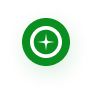
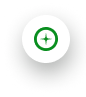
add: green btn with responsive

Changed region(s): [[0.2093, 0.1875, 0.8605, 0.7812]]

diff --git a/src/pages/historyOfComplaints.html b/src/pages/historyOfComplaints.html
@@ -6,7 +6,7 @@
 <head>
     <meta charset="UTF-8">
     <meta name="viewport" content="width=device-width, initial-scale=1.0">
-    <title>Resover | History of complaints</title>
+    <title>Resover | Complaint History</title>
     <link href="https://cdn.jsdelivr.net/npm/daisyui@4.12.10/dist/full.min.css" rel="stylesheet" type="text/css" />
     <script src="https://cdn.tailwindcss.com"></script>
     <script src="https://kit.fontawesome.com/96ee5d0221.js" crossorigin="anonymous"></script>
@@ -139,7 +139,7 @@
     <!-- profile intro section -->
     <section class="xl:block hidden container mx-auto bg-[#F6FBFD] py-16 ">
         <div class=" mx-20 flex flex-col justify-center items-center">
-            <div class="w-full relative">
+            <div class="w-full ">
                 <div class="flex flex-col justify-center items-center">
                     <div><img src="../assets/images/charlie.png" alt=""></div>
                     <h2 class="text-3xl font-medium my-2">Charlie Henderson</h2>
@@ -148,7 +148,7 @@
                         <span>San Francisco,CA</span>
                     </p>
                 </div>
-                <img class="-mb-8 -ml-3 absolute bottom-0 xl:block hidden" src="../assets/images/green-plus.png" alt="">
+                
             </div>
             <div class="text-gray-500 container mx-auto bg-white rounded shadow  font-semibold px-5 py-5 mt-10">
                 <a href="./userProfileInformation.html" class="px-4 py-2">Profile Information</a>
@@ -163,7 +163,32 @@
 
 
     <!-- compaint section  -->
-    <section class=" container xl:px-20 px-4 xl:pt-10 xl:pb-32  bg-[#F4F4F4] ">
+    <section class="relative container xl:px-20 px-4 xl:pt-10 xl:pb-32  bg-[#F4F4F4] ">   
+<!-- green icon btn -->
+<div class="xl:block hidden dropdown dropdown-top absolute top-16 left-0">
+    <img src="../assets/images/green-plus.png" alt="Logo" tabindex="0" role="button" class="" id="fab-btn-left" onclick="toggleDropdown('dropdown-menu-left')" />
+    <ul id="dropdown-menu-left" class="dropdown-content menu bg-base-100 rounded-box z-[1] w-52 p-2 left-10 shadow relative">
+        <li class="flex justify-end">
+            <button class="absolute top-0 -left-10 btn btn-xs btn-circle border-2 border-black" onclick="closeDropdown('dropdown-menu-left')">&times;</button>
+        </li>
+        <li><a><i class="fa-regular fa-star ml-2"></i>Write Review</a></li>
+        <li><a><i class="fa-regular fa-star ml-2"></i>Resolve an Issue</a></li>
+        <li><a><i class="fa-regular fa-star ml-2"></i>Price Comparison</a></li>
+    </ul>
+</div>
+
+<!-- green icon btn responsive -->
+<div class="xl:hidden block dropdown dropdown-top absolute top-56 right-8">
+    <img src="../assets/images/green-plus.png" alt="Logo" tabindex="0" role="button" class="" id="fab-btn-right" onclick="toggleDropdown('dropdown-menu-right')" />
+    <ul id="dropdown-menu-right" class="dropdown-content menu bg-base-100 rounded-box z-[1] w-52 p-2 right-6 shadow relative">
+        <li class="flex justify-end"></li>
+        <button class="absolute top-0 -right-10 btn btn-xs btn-circle border-2 border-black" onclick="closeDropdown('dropdown-menu-right')">&times;</button>
+        <li><a><i class="fa-regular fa-star ml-2"></i>Write Review</a></li>
+        <li><a><i class="fa-regular fa-star ml-2"></i>Resolve an Issue</a></li>
+        <li><a><i class="fa-regular fa-star ml-2"></i>Price Comparison</a></li>
+    </ul>
+</div>
+          
         <div class="xl:bg-white px-5 pt-5 pb-10 shadow">
             <div class="hidden xl:flex justify-center items-center ">
                 <div class=" xl:w-[700px] text-center ">
@@ -234,9 +259,8 @@
                         </div>
                     </div>
                     <div class="my-5">
-                        <div class="flex justify-between relative">
+                        <div class="flex justify-between ">
                             <h3 class="text-lg text-[#1A1A1A] font-semibold">Issues with Installation</h3>
-                            <img class="xl:hidden block absolute -bottom-7 -right-12" src="../assets/images/green-plus.png" alt="">
                         </div>
                         <p class="text-[#666]">Complaint resolution is crucial to good customer service. Eventually, it
                             leads to the company or
@@ -857,7 +881,7 @@
                     <i class="fa-solid fa-arrow-right border border-gray-400 py-2 px-3 shadow-lg rounded"></i>
                 </div>
             </div>
-
+        </div>
     </section>
 
 
@@ -990,6 +1014,21 @@
     
       </footer>
 
+
+    <script>
+        function toggleDropdown(menuId) {
+         const dropdown = document.getElementById(menuId);
+         if (dropdown.style.display === 'none' || dropdown.style.display === '') {
+             dropdown.style.display = 'block';
+         } else {
+             dropdown.style.display = 'none';
+         }
+     }
+     
+     function closeDropdown(menuId) {
+         document.getElementById(menuId).style.display = 'none';
+     }
+         </script>
     <script src="../js/linkup.js"></script>
 </body>
 

diff --git a/src/pages/complaintTracking.html b/src/pages/complaintTracking.html
@@ -4,7 +4,7 @@
 <head>
     <meta charset="UTF-8">
     <meta name="viewport" content="width=device-width, initial-scale=1.0">
-    <title>Document</title>
+    <title>Resolver | Complaint Tracking</title>
     <link href="https://cdn.jsdelivr.net/npm/daisyui@4.12.10/dist/full.min.css" rel="stylesheet" type="text/css" />
     <script src="https://cdn.tailwindcss.com"></script>
     <script src="https://kit.fontawesome.com/96ee5d0221.js" crossorigin="anonymous"></script>
@@ -107,7 +107,31 @@
         <p class="text-3xl font-medium">Complaint Tracking</p>
     </section>
     <!-- -->
-    <section class=" container xl:px-20 px-4 bg-[#B5B5B5] py-10 xl:py-20">
+    <section class="relative container xl:px-20 px-4 bg-[#B5B5B5] py-10 xl:py-20">
+<!-- green icon btn -->
+<div class="xl:block hidden dropdown dropdown-top absolute top-28 left-0">
+    <img src="../assets/images/green-plus.png" alt="Logo" tabindex="0" role="button" class="" id="fab-btn-left" onclick="toggleDropdown('dropdown-menu-left')" />
+    <ul id="dropdown-menu-left" class="dropdown-content menu bg-base-100 rounded-box z-[1] w-52 p-2 left-10 shadow relative">
+        <li class="flex justify-end">
+            <button class="absolute top-0 -left-10 btn btn-xs btn-circle border-2 border-black" onclick="closeDropdown('dropdown-menu-left')">&times;</button>
+        </li>
+        <li><a><i class="fa-regular fa-star ml-2"></i>Write Review</a></li>
+        <li><a><i class="fa-regular fa-star ml-2"></i>Resolve an Issue</a></li>
+        <li><a><i class="fa-regular fa-star ml-2"></i>Price Comparison</a></li>
+    </ul>
+</div>
+
+<!-- green icon btn responsive -->
+<div class="xl:hidden block dropdown dropdown-top absolute top-[710px] right-5">
+    <img src="../assets/images/green-plus.png" alt="Logo" tabindex="0" role="button" class="" id="fab-btn-right" onclick="toggleDropdown('dropdown-menu-right')" />
+    <ul id="dropdown-menu-right" class="dropdown-content menu bg-base-100 rounded-box z-[1] w-52 p-2 right-6 shadow relative">
+        <li class="flex justify-end"></li>
+        <button class="absolute top-0 -right-10 btn btn-xs btn-circle border-2 border-black" onclick="closeDropdown('dropdown-menu-right')">&times;</button>
+        <li><a><i class="fa-regular fa-star ml-2"></i>Write Review</a></li>
+        <li><a><i class="fa-regular fa-star ml-2"></i>Resolve an Issue</a></li>
+        <li><a><i class="fa-regular fa-star ml-2"></i>Price Comparison</a></li>
+    </ul>
+</div>
         <div class=" bg-white xl:px-10 px-4 py-10 rounded">
             <!-- go back -->
             <a href="./historyOfComplaints.html" class="py-10 px-2 flex justify-start items-center gap-3 xl:hidden">
@@ -145,7 +169,7 @@
                         <p>Resolved</p>
                     </div>
                 </div>
-                <img class="-mb-8 -mr-3 xl:hidden block" src="../assets/images/green-plus.png" alt="">
+
             </div>
         </div>
 
@@ -282,6 +306,7 @@
     </section>
     <!-- Review section -->
     <section class="container xl:px-20 px-4 flex xl:flex-row flex-col justify-between bg-[#ECEFEE] py-24">
+
         <div>
             <h1 class="text-4xl font-medium text-[#273F2B] xl:mb-3 mb-4 xl:text-left text-center">Your Next Review is
                 <br class="xl:hidden block"> Just <br class="xl:block hidden"> Around the Corner
@@ -413,6 +438,20 @@
 
   </footer>
 
+<script>
+    function toggleDropdown(menuId) {
+     const dropdown = document.getElementById(menuId);
+     if (dropdown.style.display === 'none' || dropdown.style.display === '') {
+         dropdown.style.display = 'block';
+     } else {
+         dropdown.style.display = 'none';
+     }
+ }
+ 
+ function closeDropdown(menuId) {
+     document.getElementById(menuId).style.display = 'none';
+ }
+     </script>
 </body>
 
 </html>

diff --git a/src/pages/submitYourReview.html b/src/pages/submitYourReview.html
@@ -6,7 +6,7 @@
 <head>
     <meta charset="UTF-8">
     <meta name="viewport" content="width=device-width, initial-scale=1.0">
-    <title>Document</title>
+    <title>Resolver | Write a Review</title>
     <link href="https://cdn.jsdelivr.net/npm/daisyui@4.12.10/dist/full.min.css" rel="stylesheet" type="text/css" />
     <script src="https://cdn.tailwindcss.com"></script>
     <script src="https://kit.fontawesome.com/96ee5d0221.js" crossorigin="anonymous"></script>
@@ -103,7 +103,33 @@
         </div>
     </div>
     <!-- write review section -->
-    <section class=" container xl:px-20 px-4 bg-[#F4F4F4] pt-16 pb-24">
+    <section class="relative container xl:px-20 px-4 bg-[#F4F4F4] pt-16 pb-24">
+
+<!-- green icon btn -->
+<div class="xl:block hidden dropdown dropdown-top absolute top-40 left-6">
+    <img src="../assets/images/green-plus.png" alt="Logo" tabindex="0" role="button" class="" id="fab-btn-left" onclick="toggleDropdown('dropdown-menu-left')" />
+    <ul id="dropdown-menu-left" class="dropdown-content menu bg-base-100 rounded-box z-[1] w-52 p-2 left-10 shadow relative">
+        <li class="flex justify-end">
+            <button class="absolute top-0 -left-10 btn btn-xs btn-circle border-2 border-black" onclick="closeDropdown('dropdown-menu-left')">&times;</button>
+        </li>
+        <li><a><i class="fa-regular fa-star ml-2"></i>Write Review</a></li>
+        <li><a><i class="fa-regular fa-star ml-2"></i>Resolve an Issue</a></li>
+        <li><a><i class="fa-regular fa-star ml-2"></i>Price Comparison</a></li>
+    </ul>
+</div>
+
+<!-- green icon btn responsive -->
+<div class="xl:hidden block dropdown dropdown-top absolute top-[300px] right-5">
+    <img src="../assets/images/green-plus.png" alt="Logo" tabindex="0" role="button" class="" id="fab-btn-right" onclick="toggleDropdown('dropdown-menu-right')" />
+    <ul id="dropdown-menu-right" class="dropdown-content menu bg-base-100 rounded-box z-[1] w-52 p-2 right-6 shadow relative">
+        <li class="flex justify-end"></li>
+        <button class="absolute top-0 -right-10 btn btn-xs btn-circle border-2 border-black" onclick="closeDropdown('dropdown-menu-right')">&times;</button>
+        <li><a><i class="fa-regular fa-star ml-2"></i>Write Review</a></li>
+        <li><a><i class="fa-regular fa-star ml-2"></i>Resolve an Issue</a></li>
+        <li><a><i class="fa-regular fa-star ml-2"></i>Price Comparison</a></li>
+    </ul>
+</div>
+
         <!-- go back -->
         <a href="./myReviews.html" class="xl:hidden block mb-10"><i class="fa-solid fa-arrow-left mr-2 "></i><span
                 class="text-lg font-semibold">Back</span>
@@ -198,10 +224,13 @@
 
             </div>
         </div>
+        
     </section>
     
     <!-- Review section -->
     <section class="container xl:px-20 px-4 flex xl:flex-row flex-col justify-between bg-[#ECEFEE] py-24">
+
+
         <div>
             <h1 class="text-4xl font-medium text-[#273F2B] xl:mb-3 mb-4 xl:text-left text-center">Your Next Review is
                 <br class="xl:hidden block"> Just <br class="xl:block hidden"> Around the Corner</h1>
@@ -327,6 +356,22 @@
         </div>
     
       </footer>
+
+    <script>
+       function toggleDropdown(menuId) {
+    const dropdown = document.getElementById(menuId);
+    if (dropdown.style.display === 'none' || dropdown.style.display === '') {
+        dropdown.style.display = 'block';
+    } else {
+        dropdown.style.display = 'none';
+    }
+}
+
+function closeDropdown(menuId) {
+    document.getElementById(menuId).style.display = 'none';
+}
+
+    </script>
 </body>
 
 </html>

diff --git a/src/pages/myReviews.html b/src/pages/myReviews.html
@@ -4,7 +4,7 @@
 <head>
     <meta charset="UTF-8">
     <meta name="viewport" content="width=device-width, initial-scale=1.0">
-    <title>Document</title>
+    <title>Resolver | My Reviews</title>
     <link href="https://cdn.jsdelivr.net/npm/daisyui@4.12.10/dist/full.min.css" rel="stylesheet" type="text/css" />
     <script src="https://cdn.tailwindcss.com"></script>
     <script src="https://kit.fontawesome.com/96ee5d0221.js" crossorigin="anonymous"></script>
@@ -163,7 +163,32 @@
     </section>
 
     <!-- reviews section -->
-    <section class=" container lg:px-20 px-4 bg-[#F4F4F4] pt-16 pb-24">
+    <section class="relative container lg:px-20 px-4 bg-[#F4F4F4] pt-16 pb-24">
+<!-- green icon btn -->
+<div class="xl:block hidden dropdown dropdown-top absolute top-16 left-0">
+    <img src="../assets/images/green-plus.png" alt="Logo" tabindex="0" role="button" class="" id="fab-btn-left" onclick="toggleDropdown('dropdown-menu-left')" />
+    <ul id="dropdown-menu-left" class="dropdown-content menu bg-base-100 rounded-box z-[1] w-52 p-2 left-10 shadow relative">
+        <li class="flex justify-end">
+            <button class="absolute top-0 -left-10 btn btn-xs btn-circle border-2 border-black" onclick="closeDropdown('dropdown-menu-left')">&times;</button>
+        </li>
+        <li><a><i class="fa-regular fa-star ml-2"></i>Write Review</a></li>
+        <li><a><i class="fa-regular fa-star ml-2"></i>Resolve an Issue</a></li>
+        <li><a><i class="fa-regular fa-star ml-2"></i>Price Comparison</a></li>
+    </ul>
+</div>
+
+<!-- green icon btn responsive -->
+<div class="xl:hidden block dropdown dropdown-top absolute top-48 right-5">
+    <img src="../assets/images/green-plus.png" alt="Logo" tabindex="0" role="button" class="" id="fab-btn-right" onclick="toggleDropdown('dropdown-menu-right')" />
+    <ul id="dropdown-menu-right" class="dropdown-content menu bg-base-100 rounded-box z-[1] w-52 p-2 right-6 shadow relative">
+        <li class="flex justify-end"></li>
+        <button class="absolute top-0 -right-10 btn btn-xs btn-circle border-2 border-black" onclick="closeDropdown('dropdown-menu-right')">&times;</button>
+        <li><a><i class="fa-regular fa-star ml-2"></i>Write Review</a></li>
+        <li><a><i class="fa-regular fa-star ml-2"></i>Resolve an Issue</a></li>
+        <li><a><i class="fa-regular fa-star ml-2"></i>Price Comparison</a></li>
+    </ul>
+</div>
+
         <div class="bg-white p-4 rounded-lg ">
             <div class="lg:flex justify-between hidden ">
                 <div class=" my-5">
@@ -545,6 +570,22 @@
         </div>
     
       </footer>
+
+    
+    <script>
+        function toggleDropdown(menuId) {
+         const dropdown = document.getElementById(menuId);
+         if (dropdown.style.display === 'none' || dropdown.style.display === '') {
+             dropdown.style.display = 'block';
+         } else {
+             dropdown.style.display = 'none';
+         }
+     }
+     
+     function closeDropdown(menuId) {
+         document.getElementById(menuId).style.display = 'none';
+     }
+         </script>
 
     <script src="../js/linkup.js"></script>
 </body>

diff --git a/src/pages/businessSide/addACompany.html b/src/pages/businessSide/addACompany.html
@@ -4,7 +4,7 @@
 <head>
     <meta charset="UTF-8">
     <meta name="viewport" content="width=device-width, initial-scale=1.0">
-    <title>Document</title>
+    <title>Resolver | Add a company</title>
     <link href="https://cdn.jsdelivr.net/npm/daisyui@4.12.10/dist/full.min.css" rel="stylesheet" type="text/css" />
     <script src="https://cdn.tailwindcss.com"></script>
     <script src="https://kit.fontawesome.com/96ee5d0221.js" crossorigin="anonymous"></script>

diff --git a/src/pages/businessSide/analytics.html b/src/pages/businessSide/analytics.html
@@ -4,7 +4,7 @@
 <head>
     <meta charset="UTF-8">
     <meta name="viewport" content="width=device-width, initial-scale=1.0">
-    <title>Document</title>
+    <title>Resolver | Analytics</title>
     <link href="https://cdn.jsdelivr.net/npm/daisyui@4.12.10/dist/full.min.css" rel="stylesheet" type="text/css" />
     <script src="https://cdn.tailwindcss.com"></script>
     <script src="https://kit.fontawesome.com/96ee5d0221.js" crossorigin="anonymous"></script>
